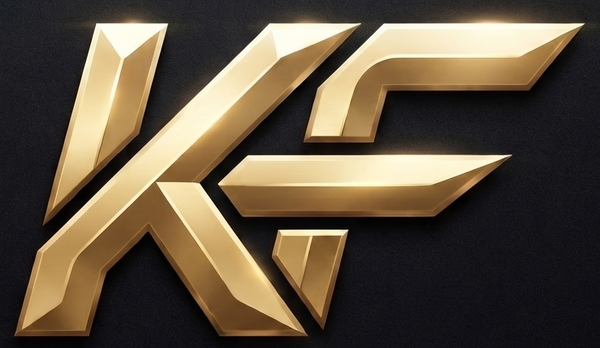
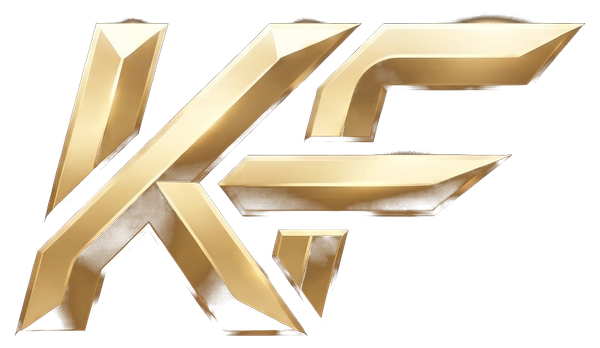
Give the header KF mark a real alpha channel instead of a flat matte
public/kf-mark.png previously baked in a solid ink-coloured rectangle behind
the glyph, matched to --color-ink so it blended into the header. That only
works if the asset is used on ink, and it isn't a real cutout of the logo.

Replaced with a proper alpha-channel extraction: a per-pixel luminance ramp
around the actual edge-transition band between letterforms and backdrop.
A single global threshold could not do this cleanly - the letters' own
shadow bevels sit in the same luminance range as the background bloom around
them, so pushing the threshold up to kill the bloom also ate holes in the
letter shading, and pushing it down let noisy bloom show through as a grey
smudge (only visible when tested against a white background; on the actual
ink canvas it read as an intentional soft glow, which is what the artwork
was going for and is what shipped).

Same 600x348 dimensions as before, so no component changes beyond a comment
correcting the now-inaccurate "flat backing" description. Verified against
the live dev server: no visible edge in the header, letter shading intact.

diff --git a/src/components/site-header.tsx b/src/components/site-header.tsx
@@ -51,9 +51,15 @@ export function SiteHeader({ locale }: { locale: Locale }) {
         {/*
           KF mark + wordmark, side by side. The mark is a crop straight from
           the client's real logo artwork (public/kf-mark.png) rather than a
-          redrawn icon, with its own flat ink-coloured backing that matches
-          --color-ink exactly — so it sits on the header with no visible seam
-          whether the header is transparent (top of page) or blurred (scrolled).
+          redrawn icon, cut out with a real alpha channel — not a flat
+          ink-coloured matte — so it sits on any background with no visible
+          edge, whether the header is transparent (top of page), blurred
+          (scrolled), or the asset ends up reused somewhere that isn't the ink
+          canvas. A plain luminance threshold could not cleanly separate the
+          letters from the backdrop, because the letters' own shadow bevels
+          overlap the same luminance range as the background bloom — the
+          alpha ramp is instead centred on the actual edge-transition band,
+          which keeps the letterforms' internal shading intact.
           Explicit width/height keep this CLS-free and eligible for priority
           loading, since it renders in the very first viewport on every page.
         */}
